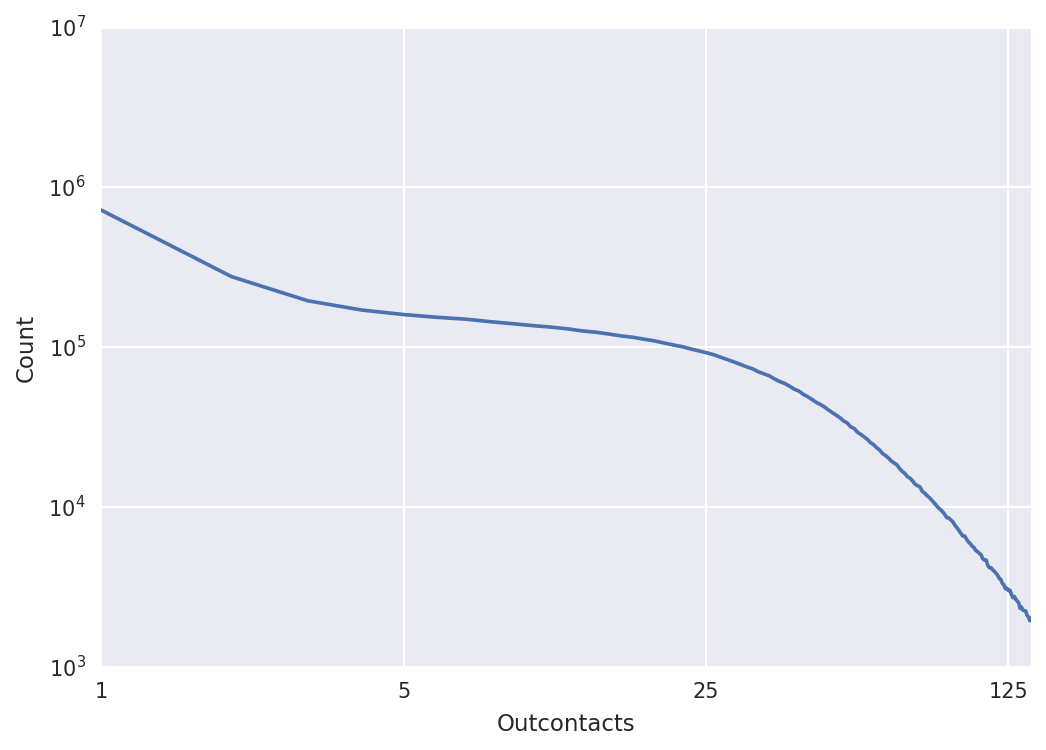
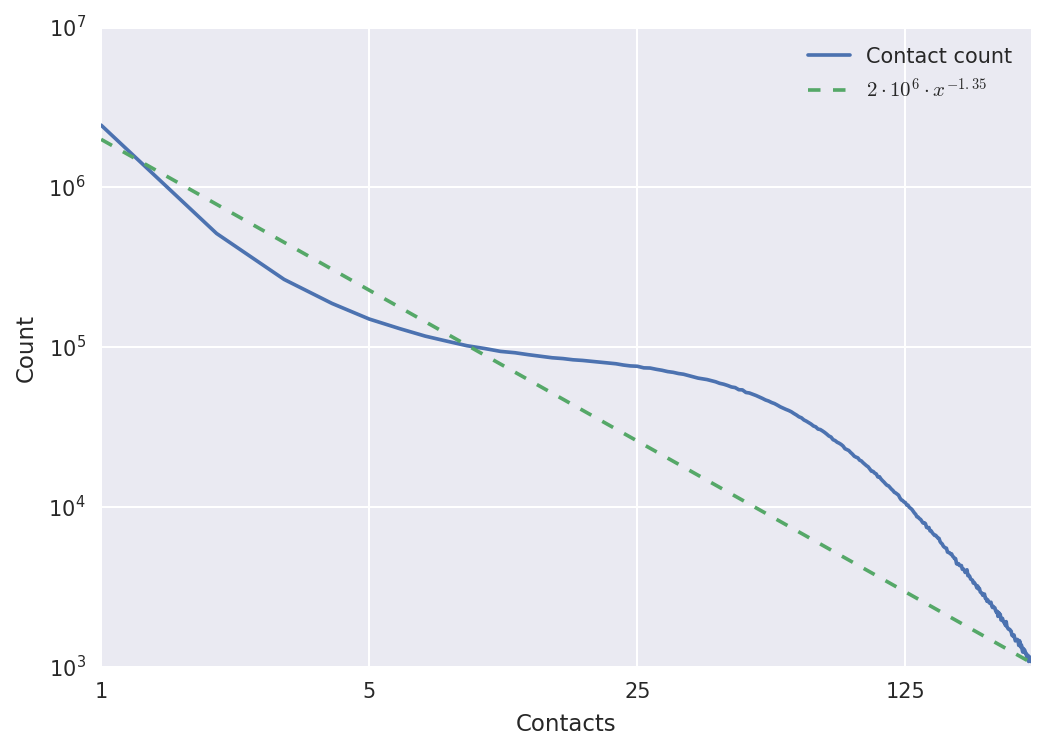
Changing calls distributions.

diff --git a/Tesis/data_source.tex b/Tesis/data_source.tex
@@ -58,30 +58,23 @@ Contacts & \num{249011358} & \num{110074848} & \\
 \label{tab:datasetnumbers}
 \end{table}
 
-Both the amount of calls and the amount of contacts per user are distributed logarithmically with a formula similar to Equation~\ref{eq:logdist}.
-
-\begin{equation}
-\label{eq:logdist}
-	\left[ \left( \forall n \right) \frac{\left| \left\{ u \in G \mid \calls_u = n \right\} \right|}{\left| \left\{ u \in G \mid \calls_u = n + 1 \right\} \right|} \approx \kappa \right] \qquad \text{for some constant} \ \kappa
-\end{equation}
-
 This form of graph can be seen in Figure~\ref{fig:outcalls_dist} and Figure~\ref{fig:outcontacts_dist}.
 
 \begin{figure}
 \centering
 \includegraphicsmaybe{figures/outcontacts_dist.png}
-\caption{Distribution of amount of outgoing calls per user.}
+\caption{Distribution of amount of total contacts per user.}
 \label{fig:outcalls_dist}
 \end{figure}
 
 \begin{figure}
 \centering
 \includegraphicsmaybe{figures/outcalls_dist.png}
-\caption{Distribution of amount of outgoing calls per user.}
+\caption{Distribution of amount of total calls per user.}
 \label{fig:outcontacts_dist}
 \end{figure}
 
-Since, unlike with the amount of calls, the \emph{Average Call Time} isn't anywhere near 0, the pattern of \emph{Call Durations} follows a \emph{Negative Binomial Distribution}\maybe{Prove this} where a mean $\mu = 75$.
+Both the amount of calls and the amount of contacts per user are distrubuted roughly in a negative exponential distribution. Since the \emph{Average Call Time} isn't anywhere near 0, the pattern of \emph{Call Durations} follows a \emph{Gamma Distribution} $\Gamma \left( 3.8, -8.4 \right)$, where $\Gamma$ corresponds to the standard version of the distribution with location and shape parameters.
 
 \begin{figure}
 \centering
